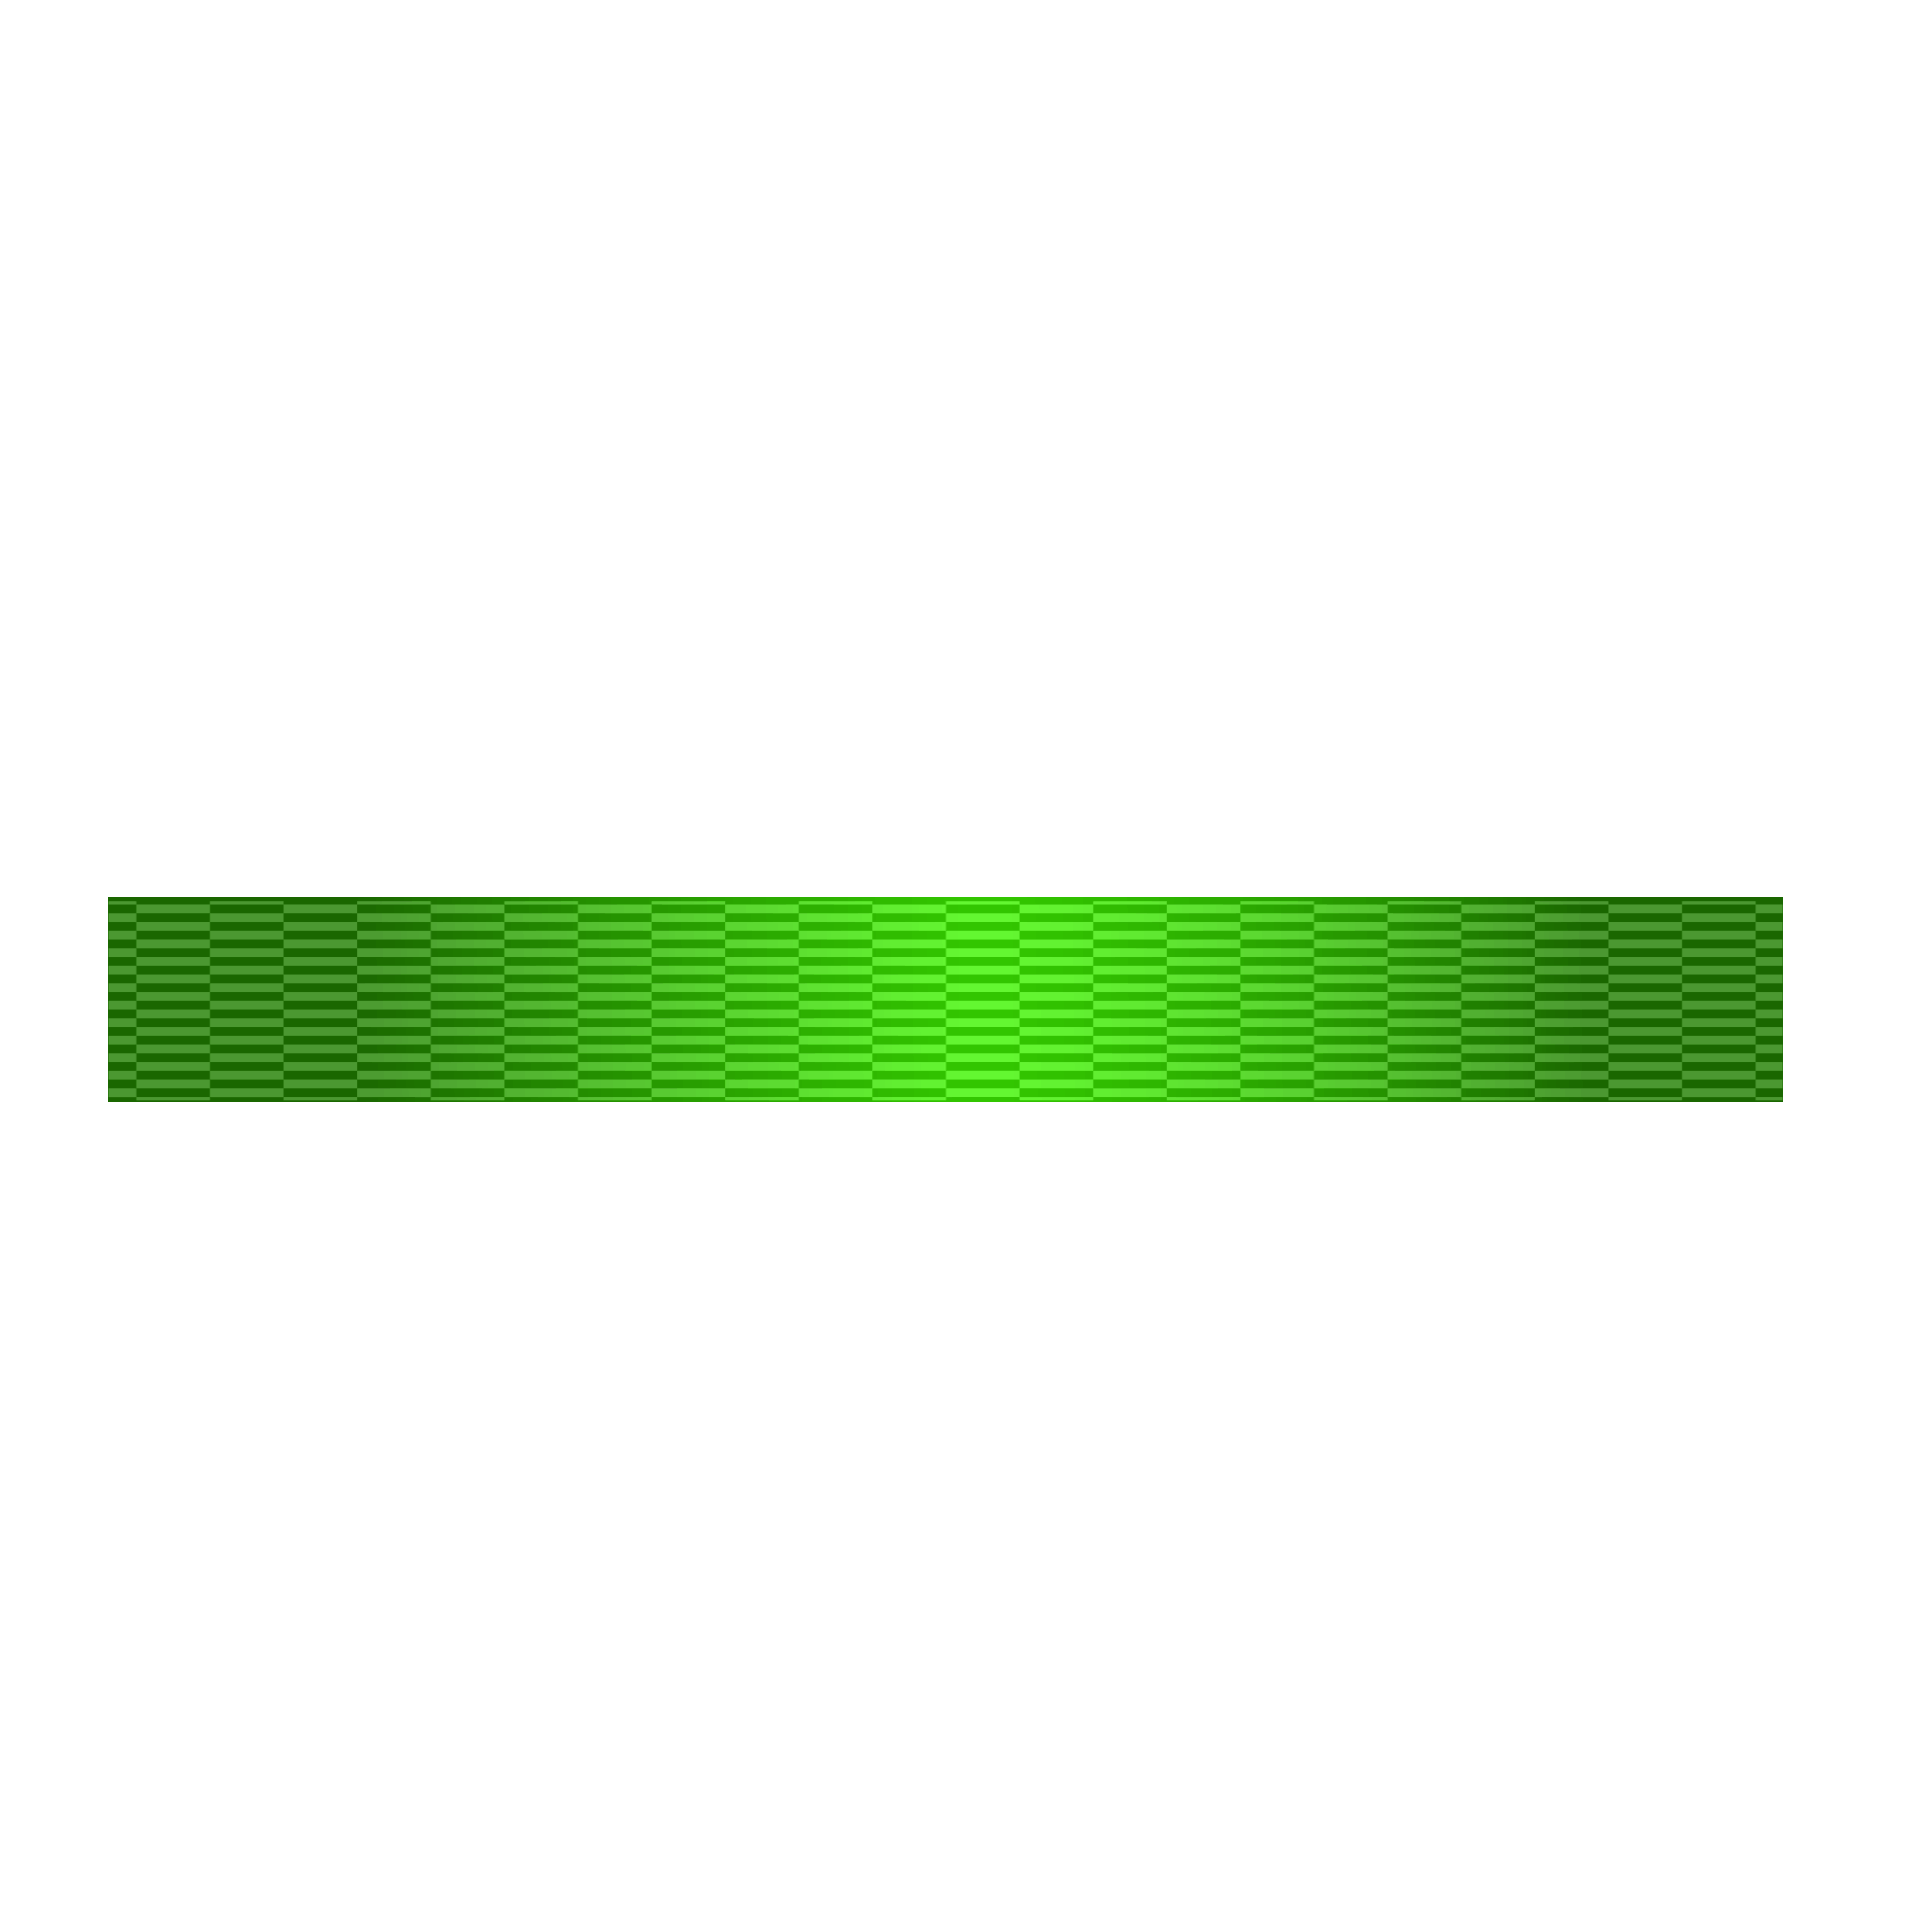
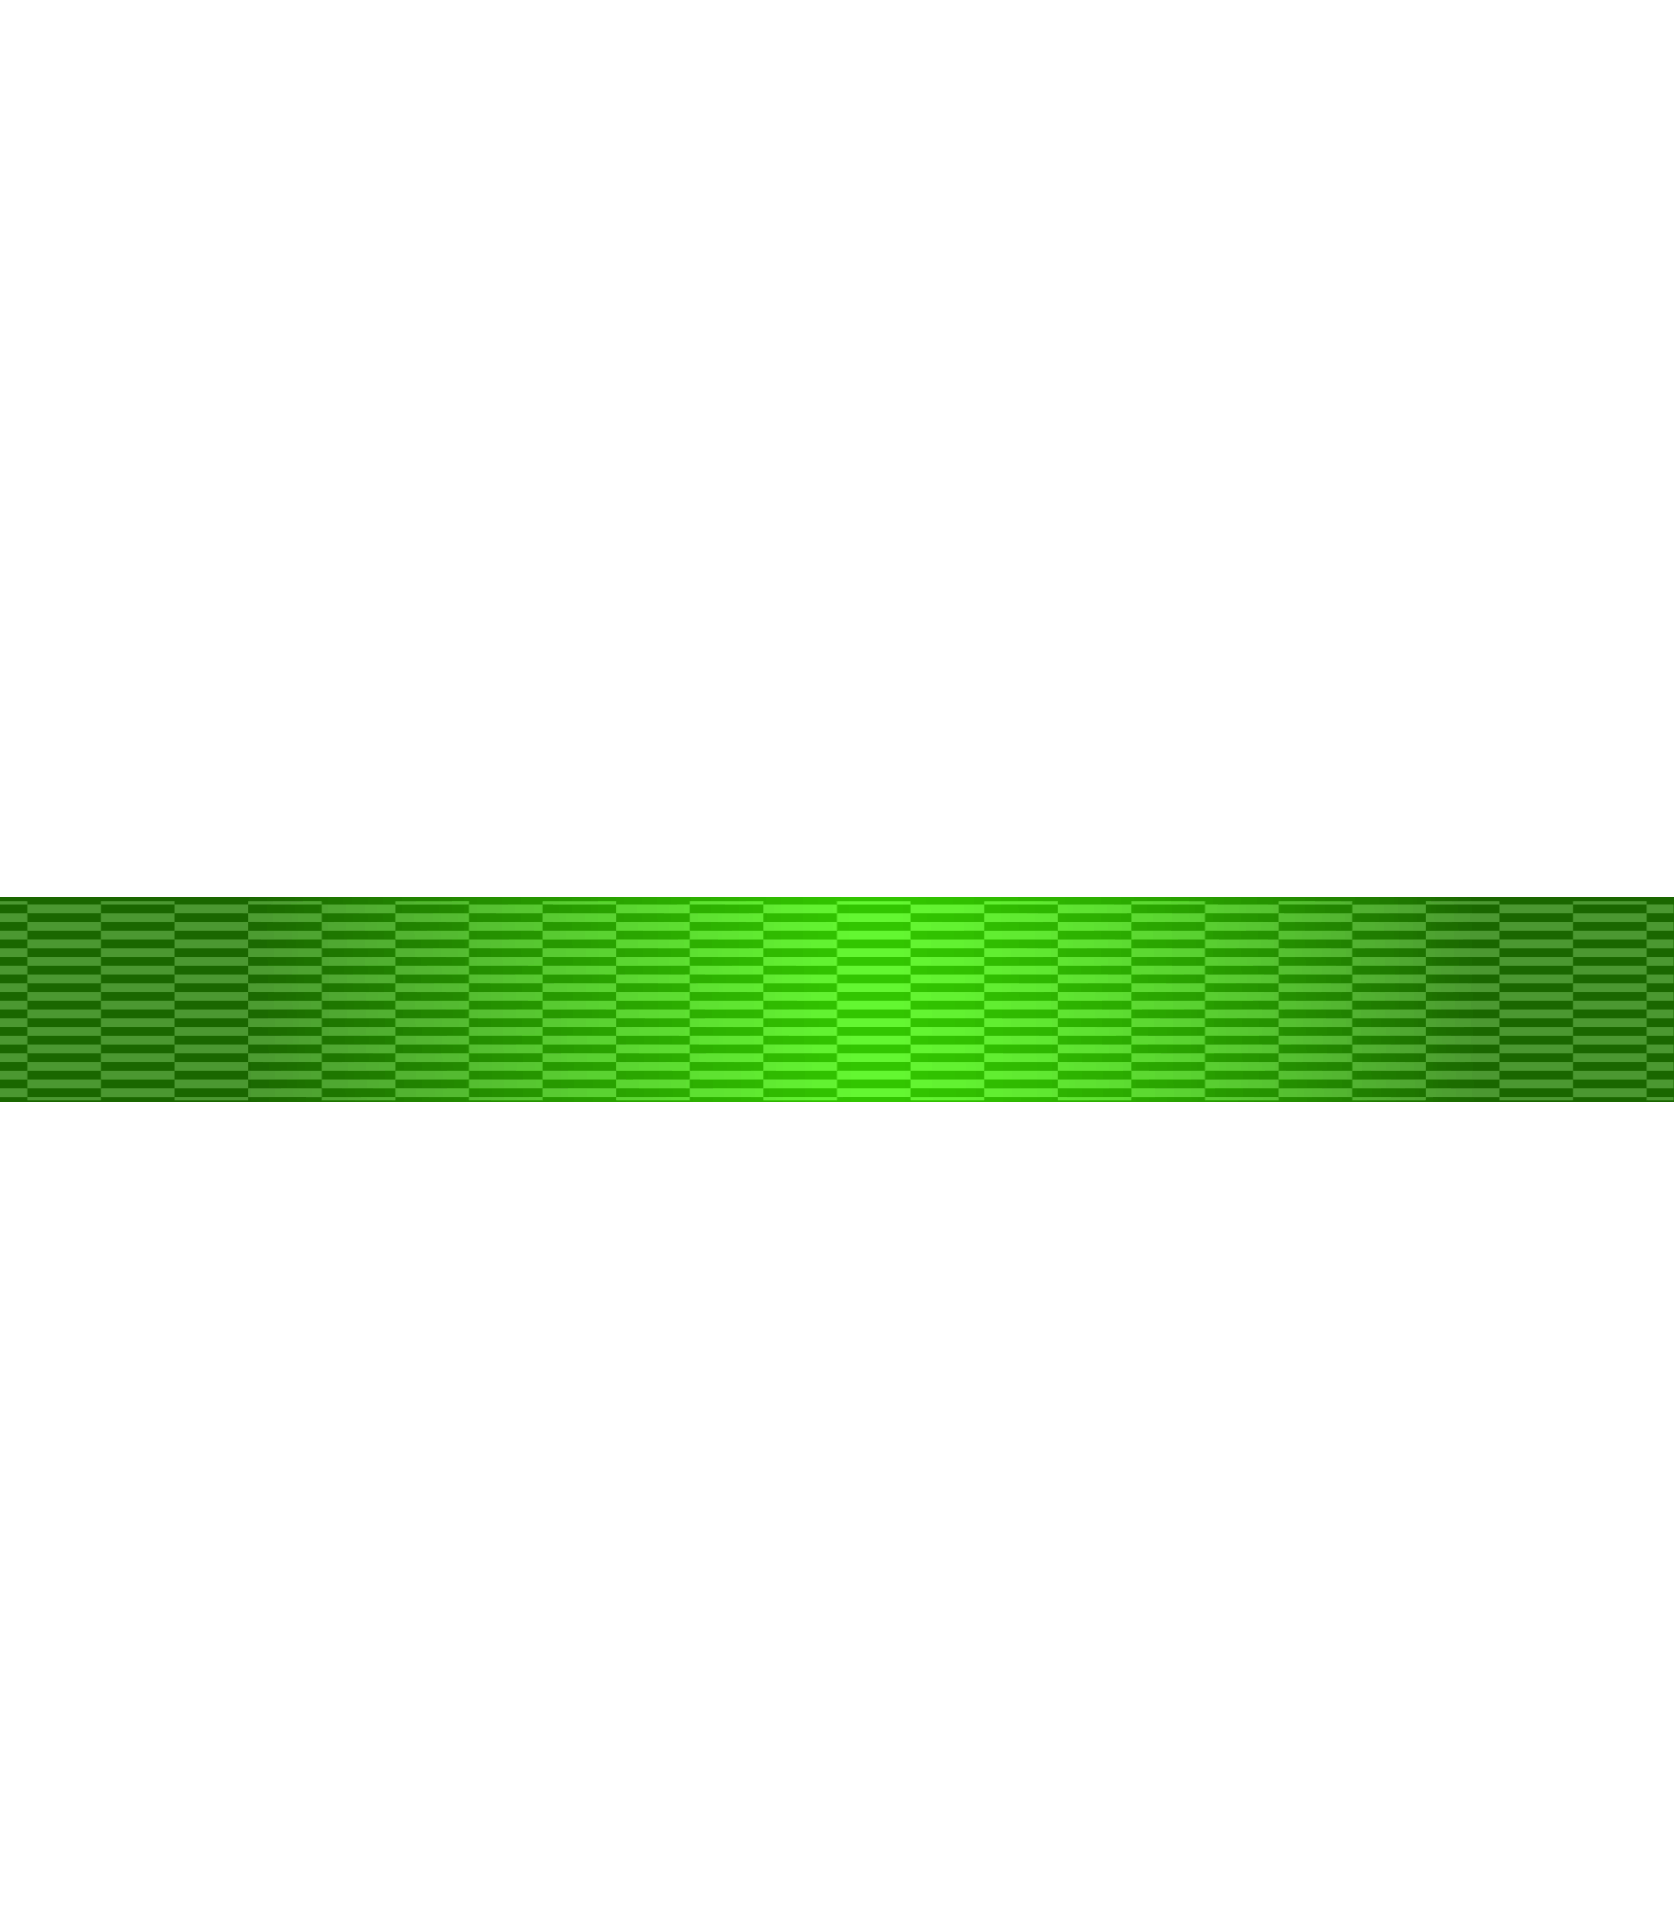
fixed the hp visually

Changed region(s): [[0.5281, 0.4688, 1.0, 0.5938], [0.0, 0.4688, 0.4349, 0.5938], [0.4659, 0.4688, 0.497, 0.5625]]

diff --git a/DX21_05_Init/Render.cpp b/DX21_05_Init/Render.cpp
@@ -616,22 +616,26 @@ void RenderGaugeFillImage(float posX, float posY, float width, float height,
 	}
 }
 
-void RenderImageClipped(float posX, float posY, float width, float height, ID3D11ShaderResourceView* textureSRV, float texClipRight)
+// render image vertical so it doesnt shift left
+void RenderImageClipped(float posX, float posY, float width, float height, ID3D11ShaderResourceView* textureSRV, float fillRatio)
 {
-	// Calculate texture coordinates - clip from the right
+	// Shrink the quad from the right while keeping left edge fixed
+	float renderWidth = width * fillRatio;  // Actual width to render
+
+	// Texture coordinates - crop from the right to match render width
 	float u0 = 0.0f;              // Left boundary
-	float u1 = texClipRight;      // Right boundary - CLIPPED
+	float u1 = fillRatio;         // Right boundary - crop texture to match
 	float v0 = 0.0f;              // Top boundary
 	float v1 = 1.0f;              // Bottom boundary
 
 	D3D11_SUBRESOURCE_DATA initData;
-
 	VertexV vertices[4] = {
-		{ posX + width, posY + height, 0.5f, u1, v0 }, // Top right
-		{ posX + width, posY,           0.5f, u1, v1 }, // Bottom right
-		{ posX,         posY + height, 0.5f, u0, v0 }, // Top left
-		{ posX,         posY,          0.5f, u0, v1 }  // Bottom left
+		{ posX + renderWidth, posY + height, 0.5f, u1, v0 }, // Top right
+		{ posX + renderWidth, posY,          0.5f, u1, v1 }, // Bottom right
+		{ posX,               posY + height, 0.5f, u0, v0 }, // Top left
+		{ posX,               posY,          0.5f, u0, v1 }  // Bottom left
 	};
+
 	initData.pSysMem = vertices;
 
 	// Create temporary vertex buffer
@@ -670,60 +674,6 @@ void RenderImageClipped(float posX, float posY, float width, float height, ID3D1
 	// Release temporary resources
 	SAFE_RELEASE(pDynamicBuffer);
 }
-
-//// this is used for the gauge bar when its filling from bottom to top (when its a rectangle)
-//void RenderImageWithCrop(float posX, float posY, float width, float height,
-//	ID3D11ShaderResourceView* textureSRV, float fillRatio)
-//{
-//	if (fillRatio <= 0.0f || textureSRV == nullptr) return;
-//	fillRatio = min(fillRatio, 1.0f);  // or std::min if needed
-//
-//	float displayHeight = height * fillRatio;
-//	float bottomY = posY;               // fixed bottom
-//	float topY = posY + displayHeight;  // grows upward
-//
-//	float u0 = 0.0f;
-//	float u1 = 1.0f;
-//
-//	// ────────────────────────────────────────────────
-//	// DX11 standard: v=0 = TOP of texture image, v=1 = BOTTOM
-//	// For bottom-fill: anchor at v=1 (bottom), reveal upward to lower v
-//	float v_bottom = 1.0f;                 // Bottom of visible quad → bottom of texture
-//	float v_top = 1.0f - fillRatio;     // Top of visible quad → moves toward top of texture
-//
-//	VertexV vertices[4] = {
-//		{ posX + width, topY,    0.5f, u1, v_top    },  // Top-right     → v = 1 - ratio
-//		{ posX + width, bottomY, 0.5f, u1, v_bottom },  // Bottom-right  → v = 1.0
-//		{ posX,         topY,    0.5f, u0, v_top    },  // Top-left
-//		{ posX,         bottomY, 0.5f, u0, v_bottom }   // Bottom-left
-//	};
-//
-//	D3D11_SUBRESOURCE_DATA initData = {};
-//	initData.pSysMem = vertices;
-//	initData.SysMemPitch = 0;
-//	initData.SysMemSlicePitch = 0;
-//
-//	ID3D11Buffer* pDynamicBuffer = nullptr;
-//	D3D11_BUFFER_DESC desc = {};
-//	desc.ByteWidth = sizeof(VertexV) * 4;
-//	desc.Usage = D3D11_USAGE_DYNAMIC;
-//	desc.BindFlags = D3D11_BIND_VERTEX_BUFFER;
-//	desc.CPUAccessFlags = D3D11_CPU_ACCESS_WRITE;
-//
-//	HRESULT hr = g_pDevice->CreateBuffer(&desc, &initData, &pDynamicBuffer);
-//	if (FAILED(hr)) return;
-//
-//	UINT stride = sizeof(VertexV);
-//	UINT offset = 0;
-//	g_pDeviceContext->IASetVertexBuffers(0, 1, &pDynamicBuffer, &stride, &offset);
-//	g_pDeviceContext->PSSetShaderResources(0, 1, &textureSRV);
-//	g_pDeviceContext->PSSetSamplers(0, 1, &pSamplerState);
-//	g_pDeviceContext->OMSetBlendState(g_pBlendState, NULL, 0xFFFFFFFF);
-//	g_pDeviceContext->Draw(4, 0);
-//
-//	SAFE_RELEASE(pDynamicBuffer);
-//}
-
 
 void RenderNumber(int number, float startX, float startY, float digitWidth, float digitHeight, ID3D11ShaderResourceView* textureSRV, bool enableCulling) {
 

diff --git a/DX21_05_Init/GameplayScene.cpp b/DX21_05_Init/GameplayScene.cpp
@@ -285,11 +285,13 @@ void GameplayScene::RenderBossHealthBar()
         SetColor(1.0f, 0.2f, 0.2f, 1.0f);  // red for almost death
     }
 
-    // Draw filled HP bar
-    //RenderImage(bossHPBarUI.x, bossHPBarUI.y, bossHPBarUI.width * healthRatio, bossHPBarUI.height, g_bossInnerHPTexture, 0, 1, 1);
+    // for the inner part of the hp bar
+    float innerOffsetX = 0.035f; // positive shift right, negative shift left
+    float innerWidthScale = 0.87f;
 
-    float hpBarWidth = bossHPBarUI.width * healthRatio;
-    RenderImageClipped(bossHPBarUI.x, bossHPBarUI.y, hpBarWidth, bossHPBarUI.height, g_bossInnerHPTexture, healthRatio);
+    float hpBarWidth = bossHPBarUI.width * innerWidthScale * healthRatio;
+
+    RenderImageClipped(bossHPBarUI.x + innerOffsetX, bossHPBarUI.y, bossHPBarUI.width * innerWidthScale, bossHPBarUI.height,g_bossInnerHPTexture, healthRatio);
 
     SetColor(1.0f, 1.0f, 1.0f, 1.0f);
 }

diff --git a/DX21_05_Init/Render.h b/DX21_05_Init/Render.h
@@ -83,9 +83,6 @@ void RenderImage(float posX, float posY, float width, float height, ID3D11Shader
 	int frameIndex = 0, int rows = 1, int columns = 1, bool enableCulling = false,
 	float rotation = 0.0f, bool flipHorizontal = false); // added the rotation
 
-//void RenderImageWithCrop(float posX, float posY, float width, float height,
-//	ID3D11ShaderResourceView* textureSRV, float fillRatio); //this is used for the gauge bar when its a rectangle
-
 void RenderImageClipped(float posX, float posY, float width, float height, ID3D11ShaderResourceView* textureSRV, float texClipRight);
 
 void RenderGaugeFillImage(float posX, float posY, float width, float height,
